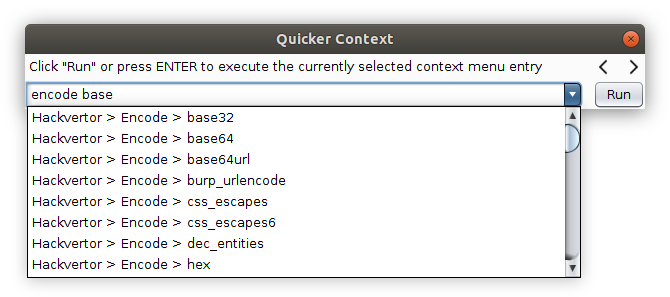
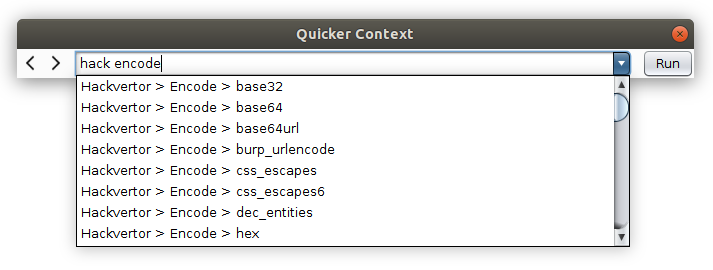
GUI redesign and small refactoring

Changed region(s): [[0.0, 0.0593, 0.9851, 0.9778]]

diff --git a/burp-quicker-context-extension/src/main/java/net/bytebutcher/burp/quicker/context/gui/widget/dialog/QuickerContextDialog.java b/burp-quicker-context-extension/src/main/java/net/bytebutcher/burp/quicker/context/gui/widget/dialog/QuickerContextDialog.java
@@ -6,7 +6,9 @@ import com.google.common.collect.Lists;
 import com.intellij.uiDesigner.core.GridConstraints;
 import com.intellij.uiDesigner.core.GridLayoutManager;
 import com.intellij.uiDesigner.core.Spacer;
+import net.bytebutcher.burp.quicker.context.gui.crawler.ContextMenuCrawler;
 import net.bytebutcher.burp.quicker.context.gui.model.ContextMenuEvent;
+import net.bytebutcher.burp.quicker.context.gui.processor.ContextMenuProcessor;
 import net.bytebutcher.burp.quicker.context.gui.util.DialogUtil;
 import net.bytebutcher.burp.quicker.context.gui.util.ImageUtil;
 import net.bytebutcher.burp.quicker.context.gui.widget.combobox.FilterComboBox;
@@ -16,6 +18,7 @@ import javax.swing.*;
 import java.awt.*;
 import java.awt.event.*;
 import java.util.HashSet;
+import java.util.Map;
 import java.util.Queue;
 import java.util.Set;
 
@@ -24,10 +27,9 @@ public class QuickerContextDialog extends JDialog {
     public JPanel rootComponent;
     protected JComboBox<String> comboBox;
     private JButton btnRun;
-    private JLabel lblInfoText;
     private JLabel lblHistoryNext;
     private JLabel lblHistoryPrev;
-    private Set<String> contextMenuEntries;
+    private Map<String, JMenuItem> contextMenuEntries;
     private History history;
 
     private final ContextMenuEvent contextMenuEvent;
@@ -85,7 +87,7 @@ public class QuickerContextDialog extends JDialog {
     }
 
     protected void setupHistory() {
-        history = new History(getContextMenuEntries(contextMenuEvent), burpExtender);
+        history = new History(getContextMenuEntries(contextMenuEvent).keySet(), burpExtender);
         JTextField textField = (JTextField) comboBox.getEditor().getEditorComponent();
         setupHistoryTraversalKeys(textField, history, burpExtender);
         setupHistoryButtons(textField);
@@ -116,7 +118,7 @@ public class QuickerContextDialog extends JDialog {
     }
 
     public void initializeComboBox() {
-        Set<String> contextMenuEntries = getContextMenuEntries(contextMenuEvent);
+        Set<String> contextMenuEntries = getContextMenuEntries(contextMenuEvent).keySet();
         for (String tabCaption : contextMenuEntries) {
             comboBox.addItem(tabCaption);
         }
@@ -126,10 +128,10 @@ public class QuickerContextDialog extends JDialog {
         SwingUtilities.invokeLater(() -> comboBox.getEditor().selectAll());
     }
 
-    private Set<String> getContextMenuEntries(ContextMenuEvent contextMenu) {
+    private Map<String, JMenuItem> getContextMenuEntries(ContextMenuEvent contextMenu) {
         if (contextMenuEntries == null) {
-            contextMenuEntries = burpExtender.getContextMenuCrawler().getContextMenuEntries(contextMenu.getSource(), Lists
-                    .newArrayList()).keySet();
+            contextMenuEntries = ContextMenuCrawler.getContextMenuEntries(contextMenu.getSource(), Lists
+                    .newArrayList());
         }
         return contextMenuEntries;
     }
@@ -189,7 +191,7 @@ public class QuickerContextDialog extends JDialog {
     public void execute() {
         String selectedItem = getSelectedItem();
         saveToHistory(selectedItem);
-        burpExtender.getContextMenuCrawler().execute(selectedItem, contextMenuEvent);
+        ContextMenuProcessor.process(selectedItem, getContextMenuEntries(contextMenuEvent), contextMenuEvent);
     }
 
     public void requestFocus() {
@@ -208,32 +210,24 @@ public class QuickerContextDialog extends JDialog {
         rootComponent = new JPanel();
         rootComponent.setLayout(new BorderLayout(0, 0));
         final JPanel panel1 = new JPanel();
-        panel1.setLayout(new GridLayoutManager(2, 2, new Insets(0, 0, 0, 0), -1, -1));
+        panel1.setLayout(new GridLayoutManager(1, 3, new Insets(0, 5, 0, 0), -1, -1));
         rootComponent.add(panel1, BorderLayout.CENTER);
-        panel1.add(comboBox, new GridConstraints(1, 0, 1, 1, GridConstraints.ANCHOR_WEST, GridConstraints.FILL_HORIZONTAL, GridConstraints.SIZEPOLICY_WANT_GROW, GridConstraints.SIZEPOLICY_FIXED, null, null, null, 0, false));
-        final JPanel panel2 = new JPanel();
-        panel2.setLayout(new GridLayoutManager(1, 2, new Insets(0, 0, 0, 0), -1, -1));
-        panel1.add(panel2, new GridConstraints(0, 1, 1, 1, GridConstraints.ANCHOR_CENTER, GridConstraints.FILL_BOTH, GridConstraints.SIZEPOLICY_CAN_SHRINK | GridConstraints.SIZEPOLICY_CAN_GROW, GridConstraints.SIZEPOLICY_CAN_SHRINK | GridConstraints.SIZEPOLICY_CAN_GROW, null, null, null, 0, false));
-        lblHistoryPrev = new JLabel();
-        lblHistoryPrev.setText("");
-        lblHistoryPrev.setToolTipText("Click to select the previous entry in history [CTRL+SHIFT+TAB]");
-        panel2.add(lblHistoryPrev, new GridConstraints(0, 0, 1, 1, GridConstraints.ANCHOR_SOUTH, GridConstraints.FILL_NONE, GridConstraints.SIZEPOLICY_FIXED, GridConstraints.SIZEPOLICY_FIXED, null, null, null, 0, false));
-        lblHistoryNext = new JLabel();
-        lblHistoryNext.setText("");
-        lblHistoryNext.setToolTipText("Click to select the next entry in history [CTRL+TAB]");
-        panel2.add(lblHistoryNext, new GridConstraints(0, 1, 1, 1, GridConstraints.ANCHOR_SOUTH, GridConstraints.FILL_NONE, GridConstraints.SIZEPOLICY_FIXED, GridConstraints.SIZEPOLICY_FIXED, null, null, null, 0, false));
+        panel1.add(comboBox, new GridConstraints(0, 1, 1, 1, GridConstraints.ANCHOR_WEST, GridConstraints.FILL_HORIZONTAL, GridConstraints.SIZEPOLICY_WANT_GROW, GridConstraints.SIZEPOLICY_FIXED, null, null, null, 0, false));
         btnRun = new JButton();
         btnRun.setText("Run");
         btnRun.setToolTipText("Click Run to execute the selected entry [ENTER]");
-        panel1.add(btnRun, new GridConstraints(1, 1, 1, 1, GridConstraints.ANCHOR_CENTER, GridConstraints.FILL_HORIZONTAL, GridConstraints.SIZEPOLICY_FIXED, GridConstraints.SIZEPOLICY_FIXED, null, null, null, 0, false));
-        final JPanel panel3 = new JPanel();
-        panel3.setLayout(new GridLayoutManager(1, 2, new Insets(4, 4, 0, 4), -1, -1));
-        panel1.add(panel3, new GridConstraints(0, 0, 1, 1, GridConstraints.ANCHOR_CENTER, GridConstraints.FILL_BOTH, GridConstraints.SIZEPOLICY_CAN_SHRINK | GridConstraints.SIZEPOLICY_CAN_GROW, GridConstraints.SIZEPOLICY_CAN_SHRINK | GridConstraints.SIZEPOLICY_CAN_GROW, null, null, null, 0, false));
-        lblInfoText = new JLabel();
-        lblInfoText.setText("Click \"Run\" or press ENTER to execute the currently selected context menu entry");
-        panel3.add(lblInfoText, new GridConstraints(0, 0, 1, 1, GridConstraints.ANCHOR_WEST, GridConstraints.FILL_NONE, GridConstraints.SIZEPOLICY_FIXED, GridConstraints.SIZEPOLICY_FIXED, null, null, null, 0, false));
-        final Spacer spacer1 = new Spacer();
-        panel3.add(spacer1, new GridConstraints(0, 1, 1, 1, GridConstraints.ANCHOR_CENTER, GridConstraints.FILL_HORIZONTAL, GridConstraints.SIZEPOLICY_WANT_GROW, 1, null, null, null, 0, false));
+        panel1.add(btnRun, new GridConstraints(0, 2, 1, 1, GridConstraints.ANCHOR_CENTER, GridConstraints.FILL_HORIZONTAL, GridConstraints.SIZEPOLICY_FIXED, GridConstraints.SIZEPOLICY_FIXED, null, null, null, 0, false));
+        final JPanel panel2 = new JPanel();
+        panel2.setLayout(new GridLayoutManager(1, 2, new Insets(0, 0, 0, 0), -1, -1));
+        panel1.add(panel2, new GridConstraints(0, 0, 1, 1, GridConstraints.ANCHOR_CENTER, GridConstraints.FILL_BOTH, GridConstraints.SIZEPOLICY_CAN_SHRINK | GridConstraints.SIZEPOLICY_CAN_GROW, GridConstraints.SIZEPOLICY_CAN_SHRINK | GridConstraints.SIZEPOLICY_CAN_GROW, null, null, null, 0, false));
+        lblHistoryPrev = new JLabel();
+        lblHistoryPrev.setText("");
+        lblHistoryPrev.setToolTipText("Click to select the previous entry in history [CTRL+SHIFT+TAB]");
+        panel2.add(lblHistoryPrev, new GridConstraints(0, 0, 1, 1, GridConstraints.ANCHOR_CENTER, GridConstraints.FILL_NONE, GridConstraints.SIZEPOLICY_FIXED, GridConstraints.SIZEPOLICY_FIXED, null, null, null, 0, false));
+        lblHistoryNext = new JLabel();
+        lblHistoryNext.setText("");
+        lblHistoryNext.setToolTipText("Click to select the next entry in history [CTRL+TAB]");
+        panel2.add(lblHistoryNext, new GridConstraints(0, 1, 1, 1, GridConstraints.ANCHOR_CENTER, GridConstraints.FILL_NONE, GridConstraints.SIZEPOLICY_FIXED, GridConstraints.SIZEPOLICY_FIXED, null, null, null, 0, false));
     }
 
     /**

diff --git a/burp-quicker-context-extension/src/main/java/net/bytebutcher/burp/quicker/context/gui/crawler/ContextMenuCrawler.java b/burp-quicker-context-extension/src/main/java/net/bytebutcher/burp/quicker/context/gui/crawler/ContextMenuCrawler.java
@@ -1,13 +1,10 @@
 package net.bytebutcher.burp.quicker.context.gui.crawler;
 
-import burp.BurpExtender;
 import com.google.common.collect.Lists;
 import com.google.common.collect.Maps;
-import net.bytebutcher.burp.quicker.context.gui.model.ContextMenuEvent;
 
 import javax.swing.*;
 import java.awt.*;
-import java.awt.event.ActionListener;
 import java.util.List;
 import java.util.Map;
 import java.util.stream.Collectors;
@@ -15,13 +12,7 @@ import java.util.stream.Stream;
 
 public class ContextMenuCrawler {
 
-    private final BurpExtender burpExtender;
-
-    public ContextMenuCrawler(BurpExtender burpExtender) {
-        this.burpExtender = burpExtender;
-    }
-
-    public Map<String, JMenuItem> getContextMenuEntries(Container container, List<String> path) {
+    public static Map<String, JMenuItem> getContextMenuEntries(Container container, List<String> path) {
         Map<String, JMenuItem> entries = Maps.newLinkedHashMap();
         if (container == null) {
             return entries;
@@ -54,12 +45,4 @@ public class ContextMenuCrawler {
         return entries;
     }
 
-    public void execute(String selectedItem, ContextMenuEvent contextMenuEvent) {
-        Map<String, JMenuItem> contextMenuEntries = getContextMenuEntries(contextMenuEvent.getSource(), Lists.newArrayList());
-        if (contextMenuEntries.get(selectedItem) != null) {
-            for (ActionListener actionListener : contextMenuEntries.get(selectedItem).getActionListeners()) {
-                actionListener.actionPerformed(contextMenuEvent.getActionEvent());
-            }
-        }
-    }
 }

diff --git a/burp-quicker-context-extension/src/main/java/burp/BurpExtender.java b/burp-quicker-context-extension/src/main/java/burp/BurpExtender.java
@@ -21,7 +21,6 @@ public class BurpExtender implements IBurpExtender, ITab {
     private static PrintWriter stderr;
     public static BurpExtender instance = null;
 
-    private ContextMenuCrawler contextMenuCrawler;
     private JPanel panel = new JPanel();
     private Container parent;
     private Config config;
@@ -63,13 +62,6 @@ public class BurpExtender implements IBurpExtender, ITab {
 
     private QuickerContextDialog getQuickerContextDialog(ContextMenuEvent contextMenuEvent) {
         return new QuickerContextDialog(this, contextMenuEvent);
-    }
-
-    public ContextMenuCrawler getContextMenuCrawler() {
-        if (contextMenuCrawler == null) {
-            contextMenuCrawler = new ContextMenuCrawler(this);
-        }
-        return contextMenuCrawler;
     }
 
     public IBurpExtenderCallbacks getCallbacks() {

diff --git a/burp-quicker-context-extension/src/main/java/net/bytebutcher/burp/quicker/context/gui/processor/ContextMenuProcessor.java b/burp-quicker-context-extension/src/main/java/net/bytebutcher/burp/quicker/context/gui/processor/ContextMenuProcessor.java
@@ -1,0 +1,20 @@
+package net.bytebutcher.burp.quicker.context.gui.processor;
+
+import com.google.common.collect.Lists;
+import net.bytebutcher.burp.quicker.context.gui.model.ContextMenuEvent;
+
+import javax.swing.*;
+import java.awt.event.ActionListener;
+import java.util.Map;
+
+public class ContextMenuProcessor {
+
+    public static void process(String selectedItem, Map<String, JMenuItem> contextMenuEntries, ContextMenuEvent contextMenuEvent) {
+        if (contextMenuEntries.get(selectedItem) != null) {
+            for (ActionListener actionListener : contextMenuEntries.get(selectedItem).getActionListeners()) {
+                actionListener.actionPerformed(contextMenuEvent.getActionEvent());
+            }
+        }
+    }
+
+}
